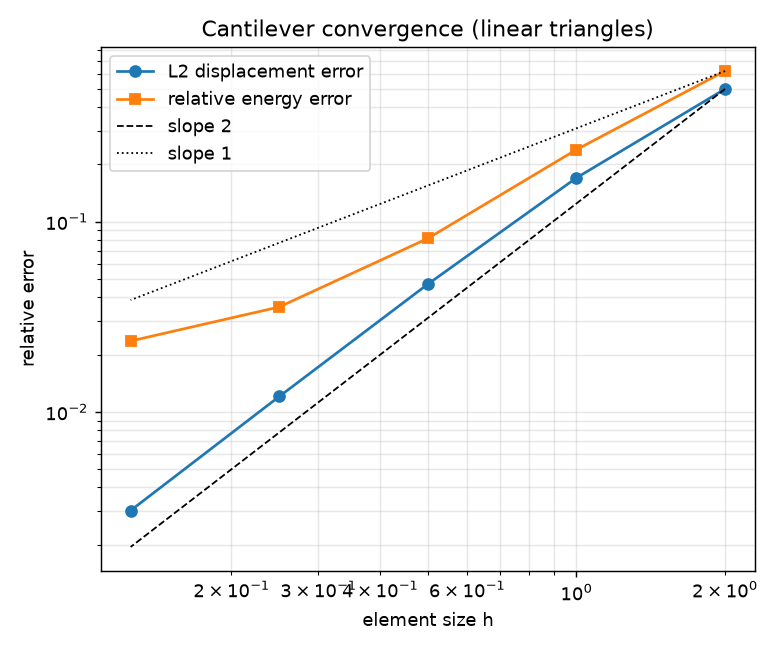
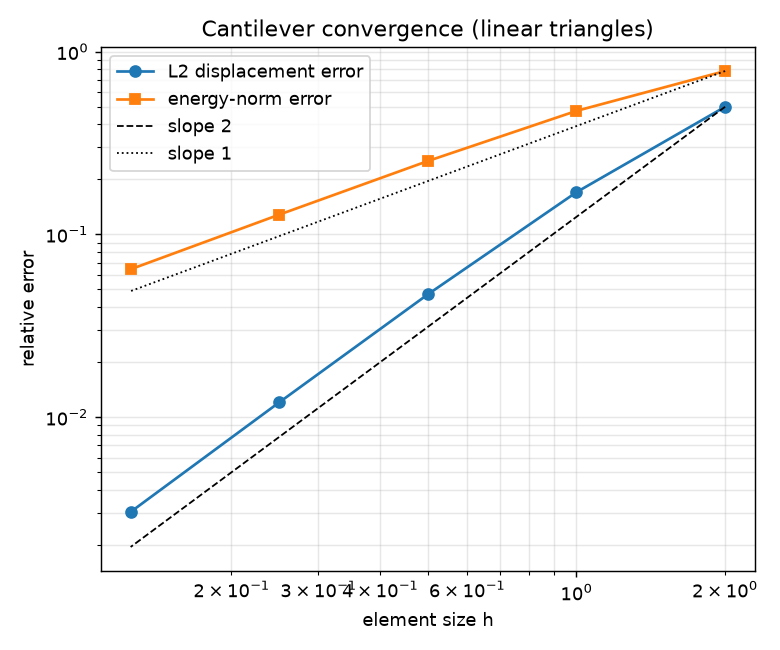
Fix energy-reference quadrature; clarify ZZ estimator is heuristic, not a bound
Addresses a review of the numerical rigor and error-estimation framing:

- examples/01: the "exact" strain energy was computed with a first-order
  product-rectangle rule (~2% error at n=200), making the reference less
  accurate than the FEM solution it validated and causing the energy error to
  floor spuriously. Replaced with an exact 8x8 Gauss-Legendre rule (the
  Timoshenko stress is polynomial) and now report the energy-NORM error via
  Galerkin orthogonality, which shows the correct O(h) rate.
- README / docs/THEORY.md: state explicitly that the Zienkiewicz-Zhu indicator
  is a heuristic recovery-based estimator with no guaranteed upper/lower bound
  and no controlled effectivity, unreliable at singularities and boundaries;
  use "validated" rather than "verified"; add a Limitations section (SPR vs
  nodal averaging, boundary-biased peak-stress read, linear edge traction).
- Label the adaptive driver's printed relative error as an estimated ZZ error.

diff --git a/examples/01_cantilever_convergence.py b/examples/01_cantilever_convergence.py
@@ -71,31 +71,46 @@ def main() -> None:
         h = sol.L / nx
         l2 = l2_displacement_error(mesh, u, sol)
         energy = prob.strain_energy(u)
-        en_err = abs(energy - exact_energy) / exact_energy
+        # Energy-norm relative error via Galerkin orthogonality:
+        #   ||u - u_h||_E / ||u||_E = sqrt( (U_exact - U_h) / U_exact ).
+        en_err = np.sqrt(max(exact_energy - energy, 0.0) / exact_energy)
         rows.append((mesh.n_dofs, h, tip_fem, l2, en_err))
 
-    print(f"exact tip deflection u(L,0) = {float(tip_exact):.6f}")
-    print(f"{'dofs':>7} {'h':>8} {'tip_fem':>12} {'L2_err':>12} {'energy_err':>12}")
+    print(f"exact tip deflection  v(L,0) = {float(tip_exact):.6f}")
+    print(f"exact strain energy       U  = {exact_energy:.6f}")
+    print(f"{'dofs':>7} {'h':>8} {'tip_fem':>12} {'L2_err':>12} {'enorm_err':>12}")
     for dofs, h, tip, l2, en in rows:
         print(f"{dofs:7d} {h:8.4f} {tip:12.6f} {l2:12.4e} {en:12.4e}")
 
-    rates = _rates([r[1] for r in rows], [r[3] for r in rows])
-    print(f"\nobserved L2 convergence rate ~ {np.mean(rates):.2f} (expected ~2.0)")
+    l2_rates = _rates([r[1] for r in rows], [r[3] for r in rows])
+    en_rates = _rates([r[1] for r in rows], [r[4] for r in rows])
+    print(f"\nobserved L2 convergence rate         ~ {np.mean(l2_rates):.2f} "
+          f"(expected ~2.0)")
+    print(f"observed energy-norm convergence rate ~ {np.mean(en_rates):.2f} "
+          f"(expected ~1.0)")
 
     _plot(rows, FIGDIR)
 
 
 def _exact_energy(sol, mat: Material) -> float:
-    """Exact strain energy via fine Gauss integration of the analytic stress."""
+    """Exact strain energy by tensor-product Gauss-Legendre integration.
+
+    The Timoshenko stress field is polynomial (degree <= 2 in x and <= 4 in y),
+    so an 8x8 Gauss rule integrates ``sigma^T C^{-1} sigma`` *exactly* -- unlike a
+    product-rectangle rule, which is only first order and would be less accurate
+    than the FEM solution it is meant to validate.
+    """
     C = mat.compliance_matrix()
-    n = 200
-    xs = np.linspace(0, sol.L, n)
-    ys = np.linspace(-sol.c, sol.c, n)
-    gx, gy = np.meshgrid(xs, ys)
-    s = sol.stress(gx.ravel(), gy.ravel())
+    xg, wg = np.polynomial.legendre.leggauss(8)
+    xs = 0.5 * sol.L * (xg + 1.0)      # map [-1, 1] -> [0, L]
+    wx = 0.5 * sol.L * wg
+    ys = sol.c * xg                    # map [-1, 1] -> [-c, c]
+    wy = sol.c * wg
+    X, Y = np.meshgrid(xs, ys, indexing="ij")
+    W = np.outer(wx, wy).ravel()
+    s = sol.stress(X.ravel(), Y.ravel())
     dens = np.einsum("ij,jk,ik->i", s, C, s)
-    area_cell = (sol.L / (n - 1)) * (2 * sol.c / (n - 1))
-    return 0.5 * mat.thickness * dens.sum() * area_cell
+    return 0.5 * mat.thickness * float(np.sum(W * dens))
 
 
 def _rates(h, err):
@@ -115,7 +130,7 @@ def _plot(rows, figdir: str) -> None:
     en = np.array([r[4] for r in rows])
     fig, ax = plt.subplots(figsize=(6, 5))
     ax.loglog(h, l2, "o-", label="L2 displacement error")
-    ax.loglog(h, en, "s-", label="relative energy error")
+    ax.loglog(h, en, "s-", label="energy-norm error")
     ax.loglog(h, l2[0] * (h / h[0]) ** 2, "k--", lw=1, label="slope 2")
     ax.loglog(h, en[0] * (h / h[0]) ** 1, "k:", lw=1, label="slope 1")
     ax.set_xlabel("element size h")

diff --git a/src/felas/adaptivity.py b/src/felas/adaptivity.py
@@ -92,7 +92,8 @@ def adaptive_solve(initial_mesh: Mesh,
         history.append(step)
         if verbose:
             print(f"[{i:2d}] dofs={step.n_dofs:6d}  "
-                  f"eta={step.global_error:.4e}  rel={step.relative_error:.4%}")
+                  f"eta={step.global_error:.4e}  "
+                  f"est.rel.err(ZZ)={step.relative_error:.4%}")
 
         if i == steps - 1:
             break

diff --git a/README.md b/README.md
@@ -9,7 +9,7 @@ error estimation, and adaptive (longest-edge bisection) mesh refinement that
 concentrates elements where the solution error is largest.
 
 The library is deliberately compact and documented so it can be read as a
-reference implementation, while being verified against closed-form benchmark
+reference implementation, while being validated against closed-form benchmark
 solutions (patch test, Timoshenko cantilever, Kirsch plate-with-hole).
 
 ---
@@ -22,12 +22,13 @@ solutions (patch test, Timoshenko cantilever, Kirsch plate-with-hole).
   Dirichlet, Neumann (edge traction), point-load and body-force boundary
   conditions.
 - **Recovery-based (Zienkiewicz–Zhu) a-posteriori error estimation** in the
-  energy norm.
+  energy norm — a *heuristic* indicator, not a guaranteed bound (see
+  [Limitations](#limitations)).
 - **Adaptive mesh refinement** via conforming Rivara *longest-edge bisection*
   with Dörfler (bulk) marking — no hanging nodes.
 - **Benchmark mesh generators**: rectangle, L-shape, and a quarter plate with a
   circular hole.
-- **Verified** against analytical solutions and classic convergence rates, with
+- **Validated** against analytical solutions and classic convergence rates, with
   a full `pytest` suite.
 
 ---
@@ -186,6 +187,33 @@ convergence rates, and that adaptivity reduces the error and beats uniform
 refinement.
 
 ---
+
+## Limitations
+
+This is a compact reference implementation, not a verified-computing library. Its
+scope and honest caveats:
+
+- **The ZZ error estimate is a heuristic, not a guaranteed bound.** It provides
+  *no* proven upper or lower bound on the true error and no controlled
+  effectivity index. Recovery-based estimators are asymptotically exact only for
+  *smooth* solutions on sufficiently regular meshes; near the L-shape's
+  re-entrant corner (a singularity) and along domain boundaries (where recovery
+  patches are one-sided) the indicator is a proxy of unquantified fidelity. The
+  "adaptive vs uniform" comparison plots the *estimated* error η, not a certified
+  one. For rigorous, guaranteed error bounds see the computer-assisted /
+  verified-FEM literature (e.g. Liu & Oishi; Kikuchi & Liu on interpolation
+  error constants).
+- **Stress recovery uses simple area-weighted nodal averaging**, not
+  superconvergent patch recovery (SPR). SPR would materially improve the
+  estimator's effectivity and is a natural next step.
+- **Reported stress-concentration peaks** (e.g. the plate-with-hole example) are
+  read from recovered nodal values at a boundary node, which carries a recovery
+  bias; treat them as validated-to-engineering-accuracy, not exact.
+- **Edge tractions** use the 2-node linear consistent load, which is exact only
+  for tractions varying linearly along an edge; a quadratic traction (e.g. the
+  cantilever end shear) incurs a harmless O(h²) consistency error.
+- Only linear (P1 / CST) triangles are implemented; no higher-order elements,
+  contact, nonlinearity, or dynamics.
 
 ## References
 

diff --git a/docs/THEORY.md b/docs/THEORY.md
@@ -95,6 +95,20 @@ evaluated here with a 3-point (edge-midpoint) quadrature that is exact for the
 quadratic integrand. The global estimate is $\eta = \big(\sum_K \eta_K^2\big)^{1/2}$,
 and the relative error is $\eta / \big(\lVert\boldsymbol{\sigma}^*\rVert_E^2 + \eta^2\big)^{1/2}$.
 
+> **This is a heuristic estimator, not a guaranteed bound.** The ZZ indicator
+> gives *no* proven upper or lower bound on the true error $\lVert \boldsymbol{\sigma} - \boldsymbol{\sigma}_h \rVert_E$
+> and no controlled effectivity index $\eta / \lVert \boldsymbol{\sigma} - \boldsymbol{\sigma}_h \rVert_E$.
+> It is asymptotically exact only for *smooth* solutions on regular meshes,
+> because it relies on the recovered field $\boldsymbol{\sigma}^*$ being a
+> superconvergent approximation of $\boldsymbol{\sigma}$. At a singularity (the
+> L-shape's re-entrant corner) or on the boundary (one-sided recovery patches)
+> this assumption fails and $\eta$ becomes a proxy of unquantified fidelity. It
+> is an excellent *refinement driver* — which elements to split — but should not
+> be read as a certified error. Simple nodal averaging is used here; a
+> superconvergent patch recovery (SPR) would improve the effectivity. For
+> *guaranteed* a-posteriori bounds, see the verified-FEM literature on
+> interpolation error constants and computer-assisted proofs.
+
 ## 6. Adaptive refinement
 
 Each adaptive step performs **solve → estimate → mark → refine**:
